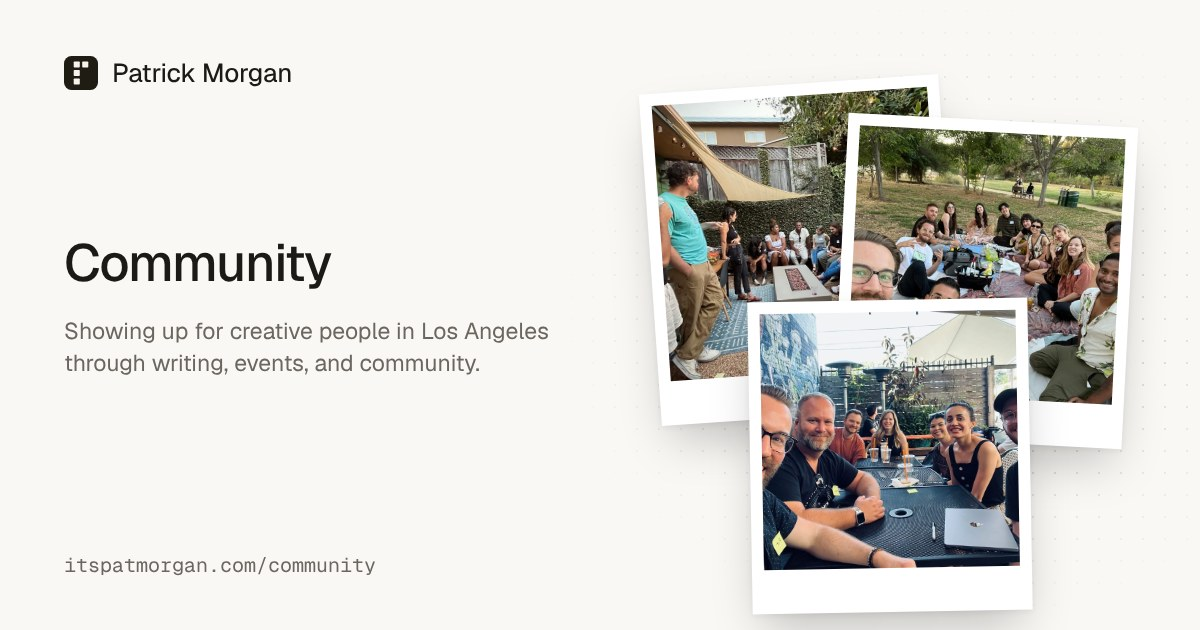
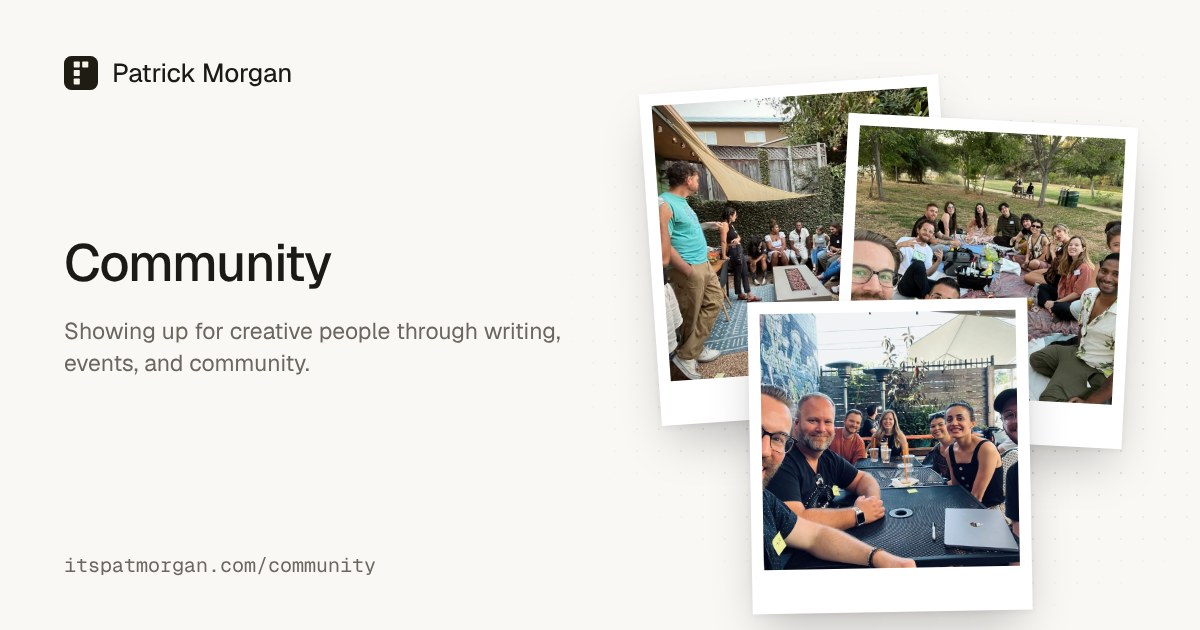
Make the Community copy location agnostic
Drops Los Angeles from the Community page description, intro and share
card, and "local LA events" from the story copy.

Claude-Session: https://claude.ai/code/session_01F8Nue8Yuo33XMUSDox6mQY

Changed region(s): [[0.0617, 0.5127, 0.4625, 0.6032]]

diff --git a/src/data/community.ts b/src/data/community.ts
@@ -2,7 +2,7 @@ export const communityStory = {
   heading: "Showing up for people who make things.",
   paragraphs: [
     "I stay active in the creative community because the best ideas are shaped in conversation: showing up to other people's events, hosting small gatherings of my own, and making room for people to compare notes in person.",
-    "Through Unknown Arts and local LA events, I try to support designers, builders, writers, and entrepreneurs who want to learn from each other without the pressure of the online hustle or oversized industry events.",
+    "Through Unknown Arts and in-person events, I try to support designers, builders, writers, and entrepreneurs who want to learn from each other without the pressure of the online hustle or oversized industry events.",
     "The goal is simple: be part of the room, contribute generously, and help creative people leave with more energy than they arrived with.",
   ],
 };
